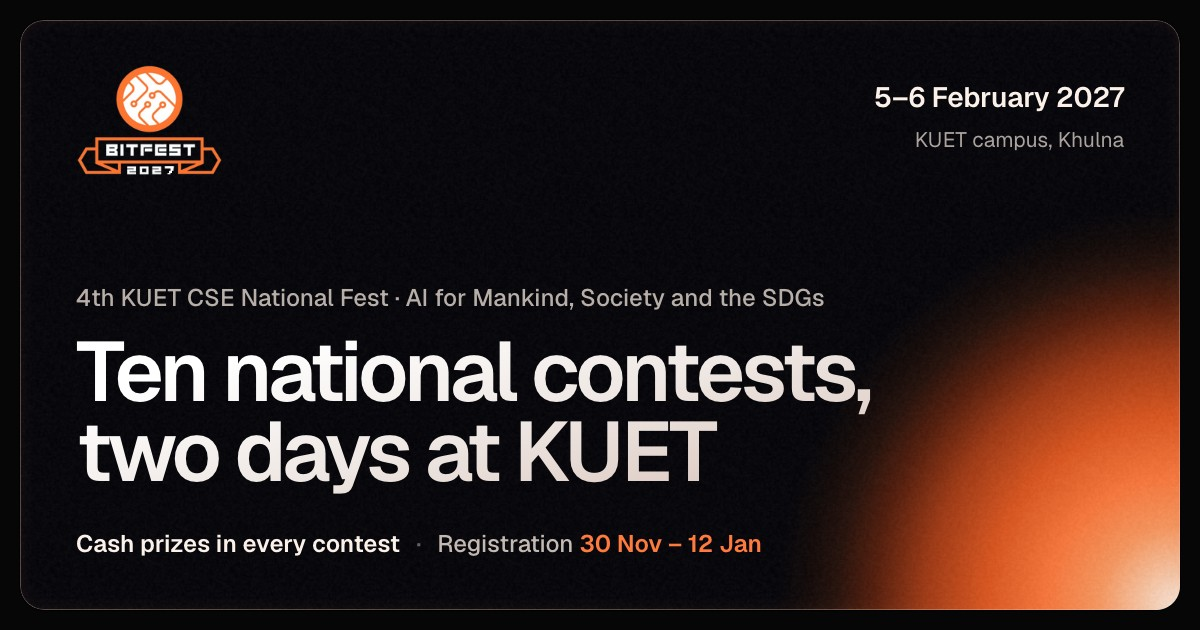
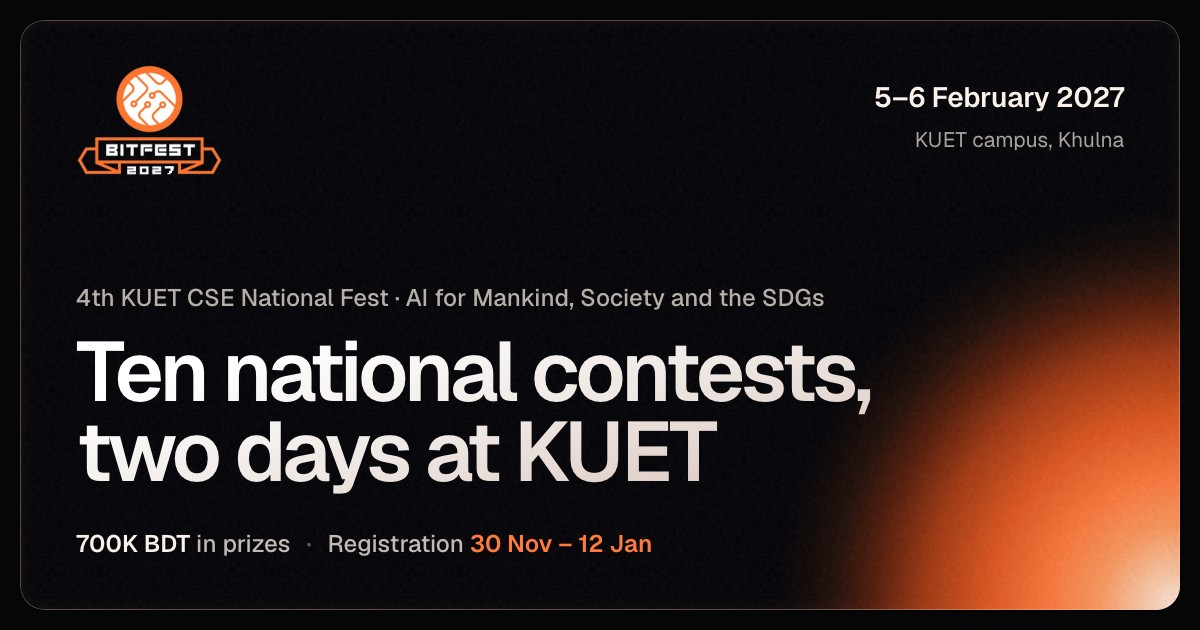
Prize pool line with a shimmer in the hero chip, total shown again, no em dashes
- The hero chip opens with "700K BDT prize pool", set like the date at its
  foot; a soft orange light sweeps across the figure every few seconds (CSS
  only, still under reduced motion).
- The fest's total pool shows wherever the total appears (key dates intro,
  phone finals chip, FAQ, search description, home social card); each
  contest's own amount stays "??".
- Em dashes removed everywhere: titles now read "BitFest 4.0 · 4th KUET CSE
  National Fest" and "IUPC · BitFest 4.0".

Changed region(s): [[0.0617, 0.8444, 0.6475, 0.8746]]

diff --git a/components/home/schedule/ScheduleTraces.tsx b/components/home/schedule/ScheduleTraces.tsx
@@ -1,7 +1,7 @@
 "use client";
 
 import { useRef } from "react";
-import { CONTEST_PAGES_LIVE, PRIZES_ANNOUNCED, events, fest, money, pad2, prizes, schedule } from "@/lib/fest";
+import { CONTEST_PAGES_LIVE, events, fest, money, pad2, prizes, schedule } from "@/lib/fest";
 import ContestLink from "@/components/ui/ContestLink";
 import SectionHead from "../SectionHead";
 import { useActiveEvent } from "../heroes/variants/useActiveEvent";
@@ -9,7 +9,7 @@ import { KIND_LABEL, dayLabel, detail, range } from "./data";
 
 const REG = (schedule[events[0].slug] ?? []).find((m) => m.kind === "window");
 
-/* S-A — All roads to the finals. Each contest is a trace on the board, running left to right from
+/* S-A: All roads to the finals. Each contest is a trace on the board, running left to right from
    30 November; its registration window, online round and shortlist sit on it as pads at their
    dates. Every trace bends into one lit chip on the right: the finals on campus. The contest in
    focus lights its trace and a signal runs along it into the chip, whose small corner light stays
@@ -39,7 +39,7 @@ export default function ScheduleTraces() {
     <section ref={sec} id="schedule" className="relative scroll-mt-20 overflow-hidden py-20 md:py-36">
       <div aria-hidden className="hero-dots pointer-events-none absolute inset-0 opacity-60" />
       <div className="relative mx-auto flex max-w-[1440px] flex-col gap-16 px-6 md:px-14">
-        <SectionHead n="01" label="Key dates" title="Every road ends on campus" sub={`Registration runs from 30 November to 12 January, and online rounds from 13 to 22 January. Every final is on the KUET campus on 5 and 6 February, ${PRIZES_ANNOUNCED ? `with ${fest.prizePool} BDT in prizes` : "with cash prizes in every contest"}.`} />
+        <SectionHead n="01" label="Key dates" title="Every road ends on campus" sub={`Registration runs from 30 November to 12 January, and online rounds from 13 to 22 January. Every final is on the KUET campus on 5 and 6 February, with ${fest.prizePool} BDT in prizes.`} />
 
         {/* Desktop: the board. */}
         <div className="hidden lg:grid lg:grid-cols-[210px_minmax(0,1fr)_340px] lg:gap-0">
@@ -165,7 +165,7 @@ export default function ScheduleTraces() {
               </span>
               <span className="flex flex-col gap-1">
                 <span className="text-[12px] font-medium text-[#f2e6dc]/65">Prize pool</span>
-                <span className="text-[15px] font-semibold tabular-nums text-[#fbf1e9]">{money(fest.prizePool)} BDT</span>
+                <span className="text-[15px] font-semibold tabular-nums text-[#fbf1e9]">{fest.prizePool} BDT</span>
               </span>
             </span>
           </div>

diff --git a/lib/content.ts b/lib/content.ts
@@ -1,4 +1,4 @@
-// Everything marked [LIKE THIS] is a placeholder — replace with the official details.
+// Everything marked [LIKE THIS] is a placeholder; replace it with the official details.
 
 export const event = {
   name: "Soccer Bot",
@@ -7,7 +7,7 @@ export const event = {
   total: "08",
   tagline: "Build it. Drive it. Score.",
   intro:
-    "Teams bring their own robot cars and battle head-to-head on the arena — outplaying the other bot to put the ball in its goal.",
+    "Teams bring their own robot cars and battle head-to-head on the arena, outplaying the other bot to put the ball in its goal.",
   registerHref: "#register",
   rulebookHref: "#", // [RULEBOOK PDF URL]
   registrationUrl: "#", // [REGISTRATION FORM URL]
@@ -22,7 +22,7 @@ export const facts = [
 ];
 
 export const about = [
-  { k: "01", t: "Build", d: "Design and wire your own robot within the spec — chassis, drive, kicker, power." },
+  { k: "01", t: "Build", d: "Design and wire your own robot within the spec: chassis, drive, kicker and power." },
   { k: "02", t: "Drive", d: "Control it live on the arena. Speed matters, but control wins matches." },
   { k: "03", t: "Score", d: "Outplay the opponent bot and put the ball in their net before the whistle." },
 ];
@@ -60,11 +60,11 @@ export const prizes = [
 ] as const;
 
 export const faqs = [
-  { q: "Who can participate?", a: "[ELIGIBILITY — e.g. university and college students from any institution in Bangladesh.]" },
+  { q: "Who can participate?", a: "[ELIGIBILITY, e.g. university and college students from any institution in Bangladesh.]" },
   { q: "Can one person be in two teams?", a: "[ANSWER]" },
   { q: "Do we need to bring our own controller and batteries?", a: "[ANSWER]" },
   { q: "Is there a registration fee?", a: "[FEE AND PAYMENT METHOD]" },
-  { q: "What happens if our bot fails inspection?", a: "[ANSWER — e.g. you get one chance to fix it before your first match.]" },
+  { q: "What happens if our bot fails inspection?", a: "[ANSWER, e.g. you get one chance to fix it before your first match.]" },
 ];
 
 export const otherEvents = [

diff --git a/lib/fest.ts b/lib/fest.ts
@@ -61,13 +61,13 @@ export const oldSite = (slug: string) => (OLD[slug] ? `https://bitfest2025.netli
 /** Contest pages are not public yet: contest names keep their hover but do not link anywhere. Set to
     true when the pages are ready and every contest name links to its page again. */
 export const CONTEST_PAGES_LIVE = false;
-/** Prize money is not announced yet: every amount shows as "??" and sentences say "cash prizes".
-    Set to true to show the figures again. */
+/** Each contest's prize money is not announced yet: those amounts show as "??". The fest's total
+    pool (fest.prizePool) is public and always shows. Set to true to show every contest's figure. */
 export const PRIZES_ANNOUNCED = false;
-/** A prize amount ready to show ("175K"), or "??" until prizes are announced. */
+/** A contest's prize amount ready to show ("175K"), or "??" until those are announced. */
 export const money = (amount: string) => (PRIZES_ANNOUNCED ? amount : "??");
 /** The fest in one line, for search results and link previews. */
-export const festDescription = `Ten national competitions in programming, AI, data science, research, robotics, cybersecurity, business and esports. ${fest.dates} at KUET, Khulna. ${PRIZES_ANNOUNCED ? `${fest.prizePool} BDT in prizes.` : "Cash prizes in every contest."}`;
+export const festDescription = `Ten national competitions in programming, AI, data science, research, robotics, cybersecurity, business and esports. ${fest.dates} at KUET, Khulna. ${fest.prizePool} BDT in prizes.`;
 
 export const eventHref = (e: FestEvent) => (e.href !== "#" ? e.href : oldSite(e.slug));
 export const isExternal = (e: FestEvent) => e.href === "#" && Boolean(OLD[e.slug]);

diff --git a/components/home/heroes/HeroPinout.tsx b/components/home/heroes/HeroPinout.tsx
@@ -8,7 +8,7 @@ import ChipGlow, { type GlowId } from "./ChipGlow";
 import WarmLight from "./rebrand/WarmLight";
 import BottomLight from "./BottomLight";
 
-/* Hero — Pinout. The fest is one chip: a substrate with a machined metal lid and ten contest pins
+/* Hero: Pinout. The fest is one chip: a substrate with a machined metal lid and ten contest pins
    (five a side) labelled like a datasheet. Built from plain HTML and CSS so it paints with the first response;
    the only motion is transform/opacity (glow, sheen, signals), and one timer steps the active pin. */
 
@@ -192,6 +192,8 @@ export default function HeroPinout({ glow = "orbit", seat = "float", lid = "meta
                   <span className="lx-ink-warm">{fest.year}</span>
                 </h1>
                 {/* The date sits at the foot of the lid, centred under the title. */}
+                {/* The prize pool heads the lid, drawn like the date at its foot. */}
+                <p className="absolute inset-x-0 top-[7%] z-[4] text-[13px] font-medium tracking-[-0.005em] text-[#f2e6dc]/85 [text-shadow:0_1px_10px_rgba(0,0,0,0.35)] lg:text-[clamp(14px,1.15vw,18px)]"><span className="pool-shimmer font-semibold">{fest.prizePool} BDT</span> prize pool</p>
                 <p className="absolute inset-x-0 bottom-[7%] z-[4] text-[13px] font-medium tracking-[-0.005em] text-[#f2e6dc]/85 [text-shadow:0_1px_10px_rgba(0,0,0,0.35)] lg:text-[clamp(14px,1.15vw,18px)]">{fest.dates}</p>
               </div>
             ) : (

diff --git a/app/globals.css b/app/globals.css
@@ -755,6 +755,23 @@ button:hover > .faq-toggle[data-on="false"] { color: var(--color-ink); box-shado
 }
 @media (prefers-reduced-motion: reduce) { .ps-row { animation: none; } .ps-viewer, .ps-big { animation: none; } }
 
+/* Hero chip: a soft light sweeps across the prize pool now and then. One background-position
+   animation on a small text box (CSS only, nothing to load); still under reduced motion. */
+.pool-shimmer {
+  background: linear-gradient(100deg, #fbf1e9 0%, #fbf1e9 40%, #ffc49e 45%, #ff8a4c 50%, #ffc49e 55%, #fbf1e9 60%, #fbf1e9 100%);
+  background-size: 250% 100%;
+  background-position: 100% 0;
+  -webkit-background-clip: text;
+  background-clip: text;
+  color: transparent;
+  animation: pool-shimmer 4.5s cubic-bezier(0.45, 0, 0.25, 1) 1.4s infinite;
+}
+@keyframes pool-shimmer {
+  0% { background-position: 100% 0; }
+  38%, 100% { background-position: 0% 0; }
+}
+@media (prefers-reduced-motion: reduce) { .pool-shimmer { animation: none; background: none; color: #fbf1e9; } }
+
 /* Theme quote (ThemeQuote): letters start faint; the scroll brings each one up (set inline). */
 .tq-c { opacity: 0.14; }
 @media (prefers-reduced-motion: reduce) { .tq-c { opacity: 1; } }

diff --git a/app/page.tsx b/app/page.tsx
@@ -15,7 +15,7 @@ const organizer = { "@type": "Organization", name: "Department of CSE, KUET", ur
 const festJsonLd = {
   "@context": "https://schema.org",
   "@type": "Event",
-  name: "BitFest 4.0 — 4th KUET CSE National Fest",
+  name: "BitFest 4.0 · 4th KUET CSE National Fest",
   description:
     "Ten national competitions in programming, AI, data science, research, robotics, cybersecurity, business and esports at KUET, Khulna.",
   startDate: "2027-02-05",
@@ -41,7 +41,7 @@ const festJsonLd = {
 };
 
 export const metadata: Metadata = {
-  title: "BitFest 4.0 — 4th KUET CSE National Fest",
+  title: "BitFest 4.0 · 4th KUET CSE National Fest",
   description: festDescription,
   alternates: { canonical: "/" },
 };

diff --git a/components/home/Partners.tsx b/components/home/Partners.tsx
@@ -2,7 +2,7 @@ import { fest, sponsors } from "@/lib/fest";
 import { TextLink } from "@/components/ui/Button";
 import SectionHead from "./SectionHead";
 
-/* 04 · Partners — BitFest 2025's sponsors and media partner on one board (2027 partners are not
+/* 04 · Partners: BitFest 2025's sponsors and media partner on one board (2027 partners are not
    confirmed yet), with the way to partner for 2027 underneath. Glowing signals run along the grid's
    lines, each cell carrying a runner on its top and left edges with its own timing, so light keeps
    moving here and there across the board. The cells are not links, so they have no hover. Names stand in

diff --git a/components/home/heroes/shared.tsx b/components/home/heroes/shared.tsx
@@ -1,7 +1,7 @@
 "use client";
 
 import { useEffect, useRef } from "react";
-import { fest, money } from "@/lib/fest";
+import { fest } from "@/lib/fest";
 import { Button, TextLink } from "@/components/ui/Button";
 import { fitCanvas } from "@/lib/hooks";
 
@@ -16,7 +16,7 @@ export function HeroActions({ className = "", style }: { className?: string; sty
 
 export function FestFacts({ className = "" }: { className?: string }) {
   const items = [
-    ["Prize pool", `${money(fest.prizePool)} BDT`],
+    ["Prize pool", `${fest.prizePool} BDT`],
     ["Events", "8"],
     ["Dates", fest.dates.replace("February", "Feb")],
   ];

diff --git a/app/events/[slug]/page.tsx b/app/events/[slug]/page.tsx
@@ -40,7 +40,7 @@ export async function generateMetadata({ params }: { params: Promise<{ slug: str
   const e = events.find((x) => x.slug === slug);
   const page = eventPages[slug];
   if (!e || !page) return {};
-  const title = `${e.name} — ${fest.name} ${fest.year}`;
+  const title = `${e.name} · ${fest.name} ${fest.year}`;
   // Each contest has its own 1200x630 card in public/og (name, final date, prize money, team size).
   const image = { url: `/og/${slug}.jpg`, width: 1200, height: 630, alt: `${e.name} at ${fest.name} ${fest.year}, ${fest.dates} at ${fest.venue}.` };
   return {

diff --git a/components/soccer/Hero.tsx b/components/soccer/Hero.tsx
@@ -14,7 +14,7 @@ gsap.registerPlugin(ScrollTrigger);
 /* Soccer Bot hero, on the landing hero's ground: the same dot field, grain and top light, and the same
    warm bottom-corner lights that follow the cursor. The title sits at the top; below it two bots
    (orange and cream) play a live match on their own, drawn on a transparent pitch so the ground shows
-   through. Nothing to drive — it is a scene, not a control panel. */
+   through. Nothing to drive: it is a scene, not a control panel. */
 
 const page = eventPages["soccer-bot"];
 

diff --git a/lib/faqs.ts b/lib/faqs.ts
@@ -29,7 +29,7 @@ const general: { q: string; a: string }[] = [
     q: "What can we win?",
     a: PRIZES_ANNOUNCED
       ? "BDT 7,00,000 in cash prizes across the ten competitions, from BDT 35,000 for 3 Minute Thesis to BDT 1,75,000 for IUPC."
-      : "Cash prizes in all ten competitions. The amounts are announced soon, with each contest's rulebook.",
+      : "BDT 7,00,000 in cash prizes across the ten competitions. Each contest's share is announced with its rulebook.",
   },
   {
     q: "Who organises BitFest?",

diff --git a/components/home/heroes/rebrand/HeroCloseup.tsx b/components/home/heroes/rebrand/HeroCloseup.tsx
@@ -5,7 +5,7 @@ import { fest } from "@/lib/fest";
 import { HeroActions } from "../shared";
 import WarmLight from "./WarmLight";
 
-/* R4 — Up close. The camera sits right on the lid: the hero is the chip's face, edge to edge, with
+/* R4: Up close. The camera sits right on the lid: the hero is the chip's face, edge to edge, with
    its thin warm rim and the light coming in from the top right. The page's words are the lid's
    markings. The light leans toward the pointer anywhere on the face. */
 
